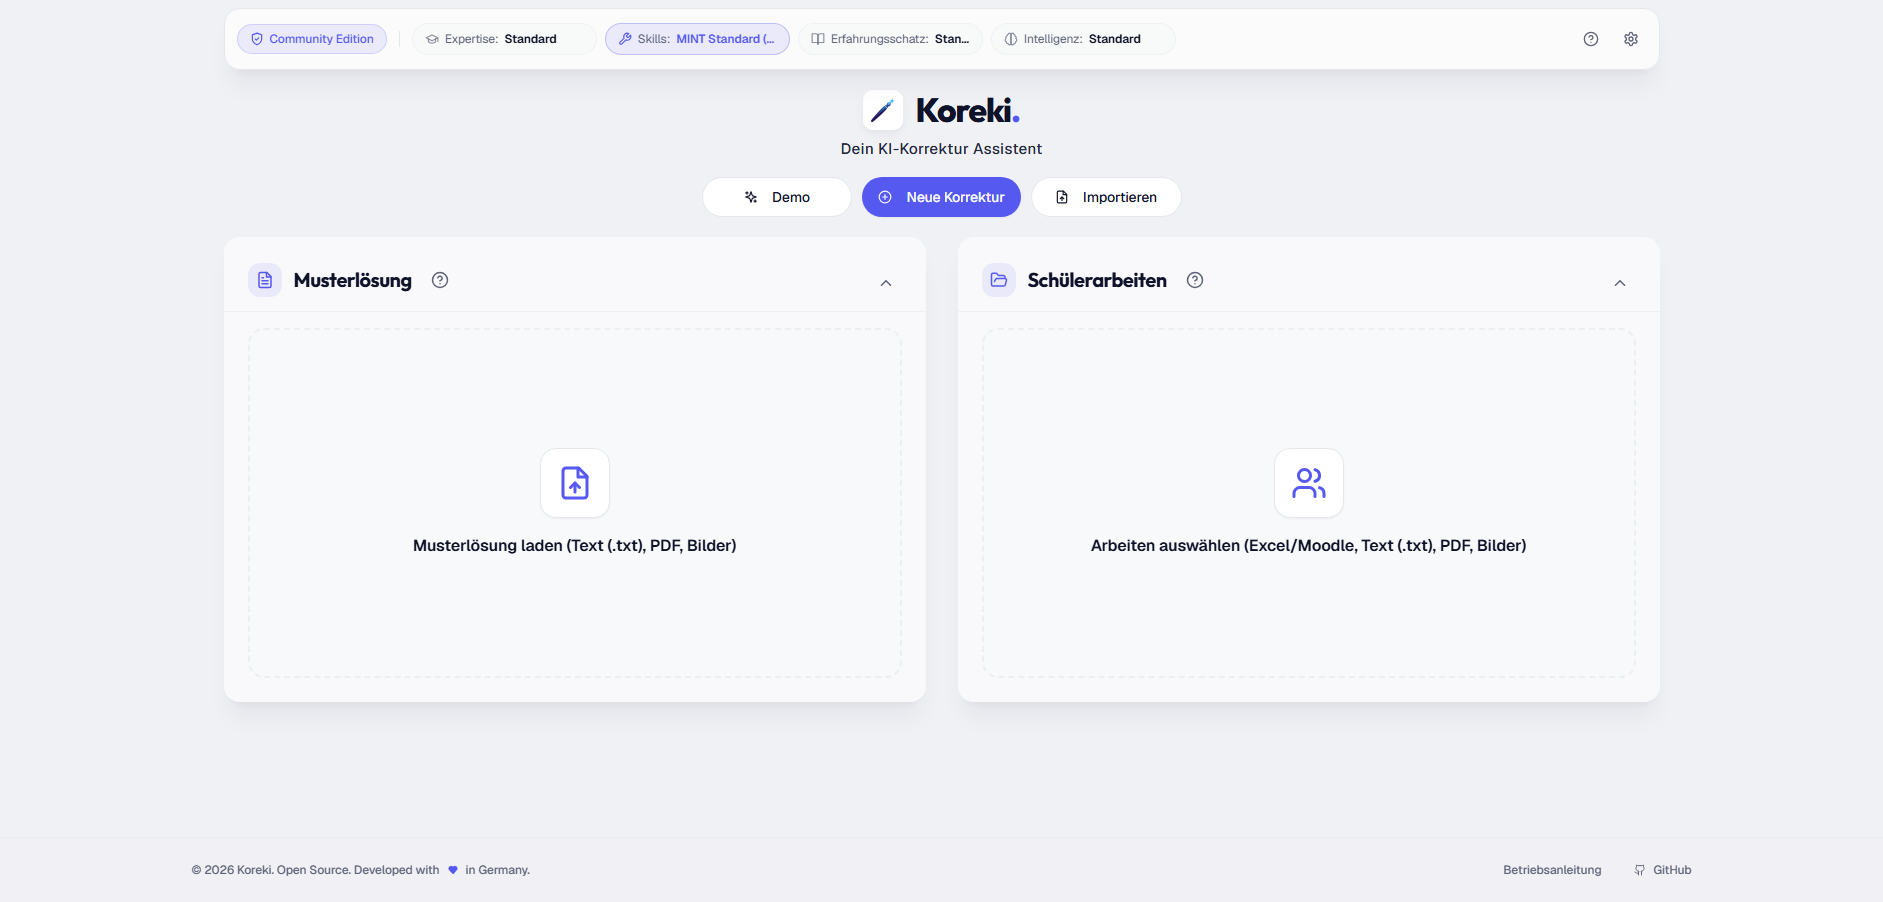
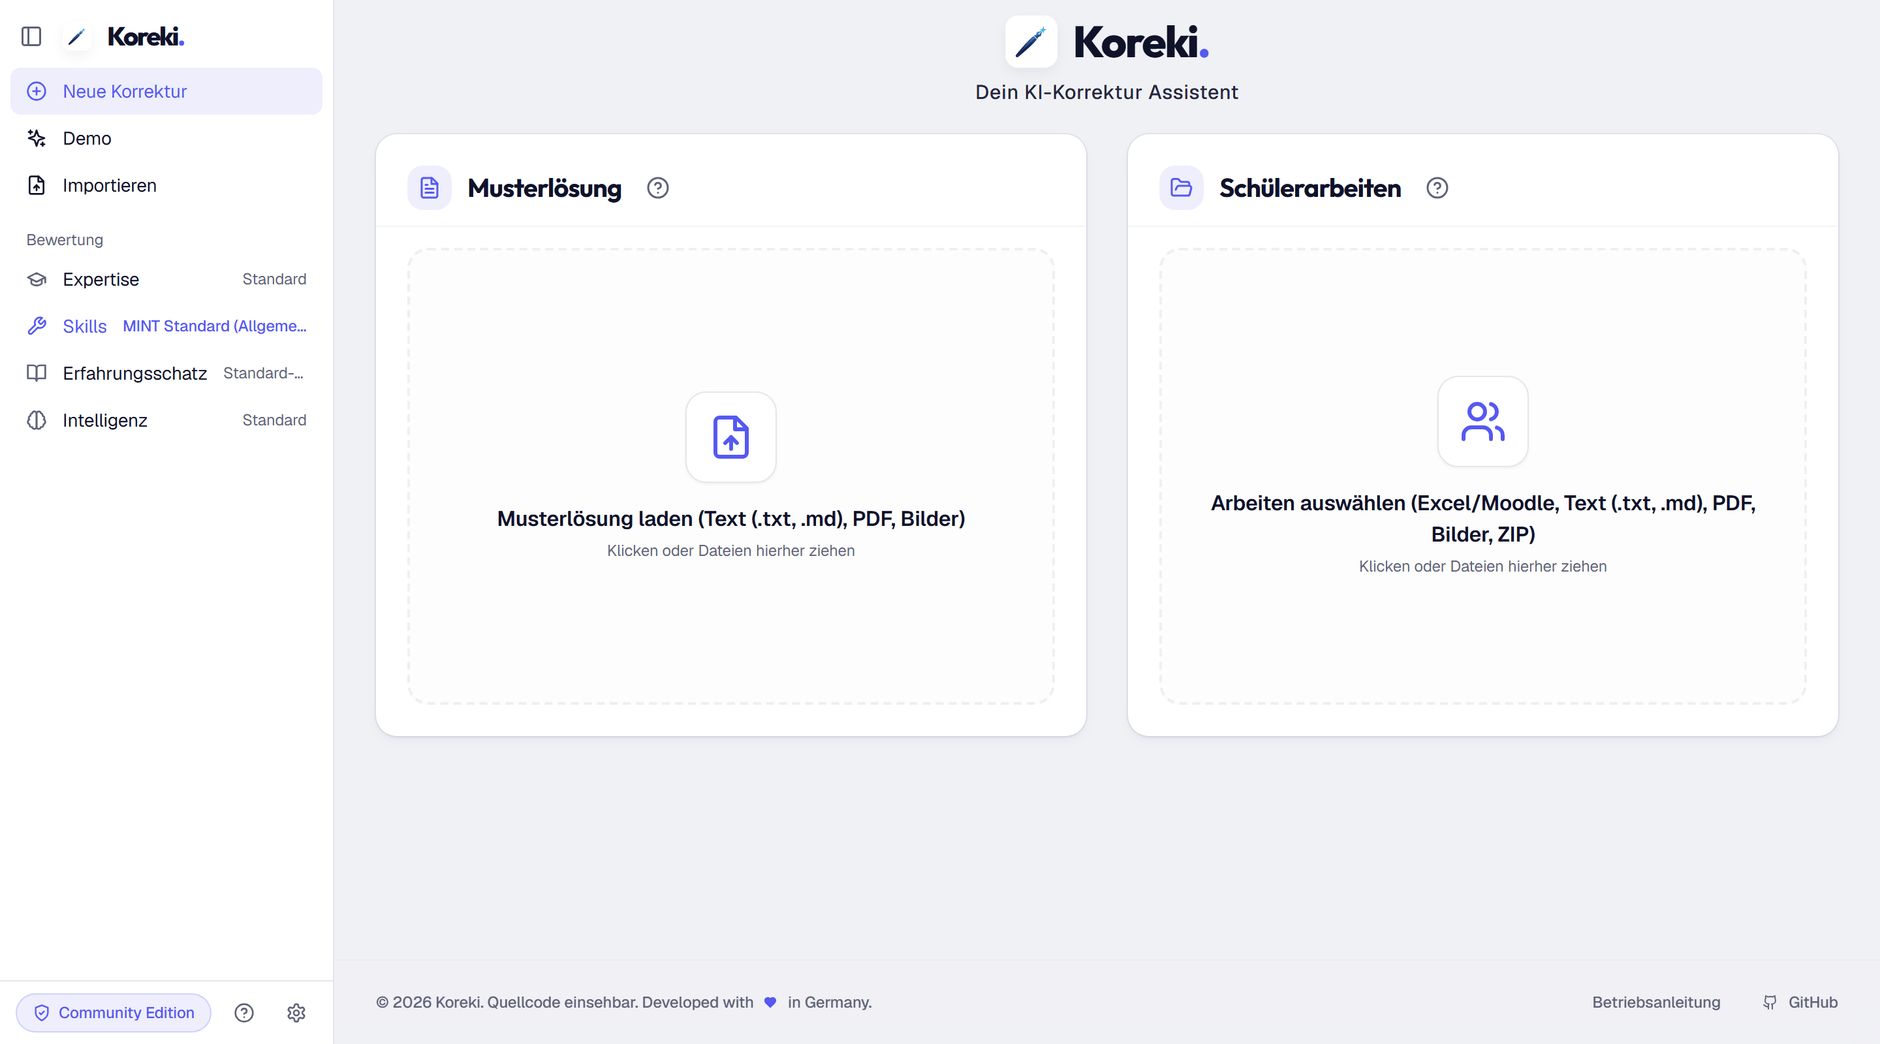
docs(marketing): Bilder der Webseite und des Handbuchs auf die Seitenleiste
Vier Webseiten-Bilder zeigten noch die alte Kopfleiste und die
"Stapelverarbeitung": Startbild, Uebersicht, die Liste (Ablauf-Schritt 2)
und die Musterloesung (Schritt 1). Neu aufgenommen mit der Demo, in
doppelter Pixeldichte wie bisher; Bildtexte nennen die Seitenleiste statt
der Kopfleiste und "Alle Arbeiten" statt Stapelverarbeitung.

Im Handbuch dieselben zwei Ansichten (app-start, app-stapel). Der Bildtext
unter der Liste unterscheidet jetzt Dreieck (einzeln korrigieren) und Pfeil
(oeffnen) — vorher gab es nur einen Pfeil.

Unveraendert: Pruefansicht/Erfahrungsschatz, Feedback, Einschaetzungsliste
und die Profilfenster — deren Inhalt hat sich nicht geaendert, und eine
fertige Arbeit gibt es nur aus einem echten Korrekturlauf.

diff --git a/src/components/marketing/landing/LandingHero.tsx b/src/components/marketing/landing/LandingHero.tsx
@@ -67,10 +67,10 @@ export const LandingHero: React.FC<LandingHeroProps> = ({ aktion }) => (
         <div className="mt-12">
             <Produktbild
                 src="/marketing/startbildschirm.webp"
-                alt="Startbildschirm von Koreki mit Musterlösung, Schülerarbeiten und den eigenen Profilen in der Kopfleiste"
+                alt="Startbildschirm von Koreki: links die Seitenleiste mit den Profilen, rechts die Felder für Musterlösung und Schülerarbeiten"
             />
             <p className="mt-4 text-center text-sm text-muted-foreground">
-                Echte Ansicht aus Koreki: Musterlösung links, Arbeiten der Klasse rechts – oben die eigenen Profile.
+                Echte Ansicht aus Koreki: Musterlösung und Arbeiten der Klasse – links in der Seitenleiste die eigenen Profile.
             </p>
         </div>
     </Abschnitt>

diff --git a/src/pages/desktop.tsx b/src/pages/desktop.tsx
@@ -103,7 +103,7 @@ export default function DesktopOnboarding() {
                     ohne Produktbild, damit nichts zum Scrollen zwingt. */}
                 {!lokal && (
                     <div className="mt-12">
-                        <Produktbild src="/marketing/uebersicht.webp" alt="Koreki Desktop mit Musterlösung, Schülerarbeiten und Stapelverarbeitung" />
+                        <Produktbild src="/marketing/uebersicht.webp" alt="Koreki Desktop mit Seitenleiste und der Liste aller Arbeiten, bereit zur Korrektur" />
                     </div>
                 )}
             </Abschnitt>

diff --git a/src/pages/features.tsx b/src/pages/features.tsx
@@ -41,7 +41,7 @@ export default function FeaturesPage() {
                         </p>
                     </div>
                 <div className="mt-12">
-                    <Produktbild src="/marketing/uebersicht.webp" alt="Koreki mit Musterlösung, Schülerarbeiten und Stapelverarbeitung" />
+                    <Produktbild src="/marketing/uebersicht.webp" alt="Koreki mit Seitenleiste und der Liste aller Arbeiten, bereit zur Korrektur" />
                 </div>
             </Abschnitt>
 

diff --git a/src/components/marketing/landing/LandingAblauf.tsx b/src/components/marketing/landing/LandingAblauf.tsx
@@ -16,7 +16,7 @@ const schritte = [
         titel: 'Arbeiten der Klasse hochladen',
         text: 'Getippt oder gescannt. Dateinamen werden vor der Übergabe an die KI durch Platzhalter ersetzt.',
         bild: '/marketing/stapel.webp',
-        alt: 'Stapel mit den Arbeiten der Klasse, bereit zur Korrektur',
+        alt: 'Alle Arbeiten der Klasse in einer Liste, bereit zur Korrektur',
         breite: 'w-[190%]',
     },
     {

diff --git a/handbuch/korrigieren/ablauf.md b/handbuch/korrigieren/ablauf.md
@@ -61,7 +61,7 @@ Bei schwer lesbarer Handschrift kann die KI ein Wort falsch lesen und dabei etwa
 ## 4. Korrigieren lassen {#korrigieren}
 
 ![Alle Arbeiten mit zwei Arbeiten, bereit zur Korrektur](/bilder/app-stapel.png){.app-bild}
-<p class="bildtext">Alle angehakten Arbeiten werden mit „Korrigieren“ bearbeitet. Mit dem Pfeil rechts korrigierst du eine einzelne.</p>
+<p class="bildtext">Alle angehakten Arbeiten werden mit „Korrigieren“ bearbeitet. Mit dem Dreieck korrigierst du eine einzelne, der Pfeil am Zeilenende öffnet sie.</p>
 
 Unter **Alle Arbeiten** stehen deine Arbeiten. Klicke auf **Korrigieren**. Koreki liest jede Arbeit und macht für jede Aufgabe einen Vorschlag. Du kannst den Lauf jederzeit abbrechen.
 
